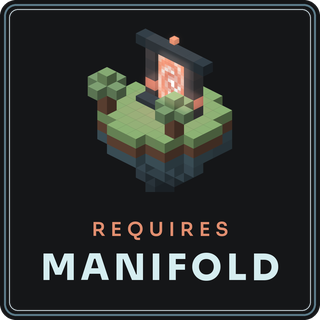
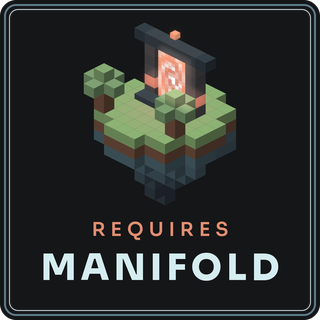
docs: badges article, landing card, and the whole island in the badge mark
The mark's render canvas clipped the bottom of the island; it is larger now
and the generator asserts nothing touches its edges.

diff --git a/docs/assets/badges/generate.py b/docs/assets/badges/generate.py
@@ -47,10 +47,12 @@ def render_mark():
     gate = [v for v in gate if not (v[5] < 0.3 and v[4] < 250)]  # no sparks: noise at badge size
     base = moddb.island(np.random.default_rng(7), 4, 3, keep_clear=cells,
                         light=((0, 0), moddb.SALMON_LIGHT, 4), tree_cells=[(3, 2), (-3, 3)])
-    scene = moddb.Scene(360, 360)
-    scene.add(base + gate, 180, 190, 20)
+    scene = moddb.Scene(440, 520)
+    scene.add(base + gate, 220, 220, 20)
     img = scene.render(bloom=8, strength=0.45)
-    return img.crop(img.getbbox())
+    box = img.getbbox()
+    assert box[0] > 0 and box[1] > 0 and box[2] < img.width and box[3] < img.height, "mark clipped by its canvas"
+    return img.crop(box)
 
 
 MARK = render_mark()
@@ -113,7 +115,7 @@ def paste_mark(img, m, x, y):
 
 def flat(p):
     f_label, f_msg = font(10.5, 500), font(10.5, 700)
-    m = mark(15)
+    m = mark(16)
     label, msg = "requires", "Manifold"
     left = 5 + m.width / U + 4 + text_width(label, f_label, 0.2) + 6
     w = math.ceil(left + 6 + text_width(msg, f_msg, 0.2) + 7)
@@ -122,7 +124,7 @@ def flat(p):
     draw.rounded_rectangle((0, 0, w * U - 1, 20 * U - 1), 3 * U, fill=p["msg_bg"])
     draw.rounded_rectangle((0, 0, left * U, 20 * U - 1), 3 * U, fill=p["label_bg"])
     draw.rectangle(((left - 3) * U, 0, left * U, 20 * U - 1), fill=p["label_bg"])
-    paste_mark(img, m, 5, 2.5)
+    paste_mark(img, m, 5, 2)
     draw_text(img, 5 + m.width / U + 4, 14, label, f_label, p["label_fg"], 0.2)
     draw_text(img, left + 6, 14, msg, f_msg, p["msg_fg"], 0.2)
     return img
@@ -131,11 +133,11 @@ def flat(p):
 def plaque(p):
     w, h = 220, 60
     img = framed(w, h, p)
-    m = mark(44)
+    m = mark(47)
     f1, f2 = font(9.5, 600), font(19, 800)
     block = m.width / U + 12 + max(text_width(LINE_1, f1, 2.6), text_width(LINE_2, f2, 2.2))
     x = (w - block) / 2
-    paste_mark(img, m, x, (h - 44) / 2)
+    paste_mark(img, m, x, (h - 47) / 2)
     x += m.width / U + 12
     draw_text(img, x, 25, LINE_1, f1, p["accent"], 2.6)
     draw_text(img, x, 46, LINE_2, f2, p["ink"], 2.2)
@@ -145,8 +147,8 @@ def plaque(p):
 def square(p):
     w = h = 160
     img = framed(w, h, p, radius=8)
-    m = mark(82)
-    paste_mark(img, m, (w - m.width / U) / 2, 14)
+    m = mark(92)
+    paste_mark(img, m, (w - m.width / U) / 2, 11)
     f1, f2 = font(9.5, 600), font(18, 800)
     draw_text(img, (w - text_width(LINE_1, f1, 2.6)) / 2, 118, LINE_1, f1, p["accent"], 2.6)
     draw_text(img, (w - text_width(LINE_2, f2, 2.2)) / 2, 140, LINE_2, f2, p["ink"], 2.2)
@@ -161,8 +163,8 @@ def seal(p):
     draw.ellipse((2 * U, 2 * U, (w - 2) * U - 1, (h - 2) * U - 1), outline=p["edge"], width=U)
     draw.ellipse((4.5 * U, 4.5 * U, (w - 4.5) * U - 1, (h - 4.5) * U - 1), outline=p["edge"] + (110,), width=U // 2)
     draw_arc_text(img, w / 2, h / 2, 39, f"{LINE_1} {LINE_2}", font(8.6, 700), p["ink"], 1.5)
-    m = mark(50)
-    paste_mark(img, m, (w - m.width / U) / 2, 37)
+    m = mark(55)
+    paste_mark(img, m, (w - m.width / U) / 2, 35)
     for dx in (-9, 0, 9):  # three voxel pips closing the ring under the mark
         s = 2.2 if dx == 0 else 1.6
         cx, cy = (w / 2 + dx) * U, 98 * U
@@ -173,8 +175,8 @@ def seal(p):
 def wide(p):
     w, h = 600, 100
     img = framed(w, h, p, radius=8)
-    m = mark(74)
-    paste_mark(img, m, 26, (h - 74) / 2)
+    m = mark(82)
+    paste_mark(img, m, 26, (h - 82) / 2)
     x = 26 + m.width / U + 22
     f1, f2 = font(26, 800), font(12.5, 500)
     draw_text(img, x, 52, f"{LINE_1} {LINE_2}", f1, p["ink"], 2.4)
@@ -194,3 +196,10 @@ if __name__ == "__main__":
             img.resize((w * 2, h * 2), Image.LANCZOS).save(OUT / f"requires-manifold-{fmt}-{name}@2x.png", optimize=True)
             img.resize((w, h), Image.LANCZOS).save(OUT / f"requires-manifold-{fmt}-{name}.png", optimize=True)
             print(fmt, name, f"{w}x{h}")
+
+    # the docs landing page's card for the Badges article: same 220x160 slot as the other cards
+    card = Image.new("RGBA", (220 * U, 160 * U))
+    plaque_img = plaque(PALETTES["void"])
+    card.alpha_composite(plaque_img.resize((plaque_img.width * 9 // 10, plaque_img.height * 9 // 10), Image.LANCZOS),
+                         (11 * U, 53 * U))
+    card.resize((440, 320), Image.LANCZOS).save(OUT / "card.png", optimize=True)

diff --git a/docfx/articles/badges.md b/docfx/articles/badges.md
@@ -1,0 +1,72 @@
+# Badges
+
+Your mod needs Manifold installed, and a player who misses that line in your description gets a
+mod that does not load. A badge says it at a glance and links straight to the download.
+
+<a href="https://mods.vintagestory.at/manifold"><img src="../assets/badges/requires-manifold-wide-void.png" srcset="../assets/badges/requires-manifold-wide-void@2x.png 2x" width="600" height="100" alt="Requires Manifold" style="max-width:100%;height:auto"></a>
+
+The kit has five formats in three palettes. Every badge carries its own opaque ground and frame,
+so it reads on any page background.
+
+## On a Mod DB page
+
+Open your mod's page in the editor, switch to the source view (the `<>` button) and paste this
+where the badge should sit:
+
+```html
+<a href="https://mods.vintagestory.at/manifold"><img src="https://raw.githubusercontent.com/Pixnop/Manifold/main/docs/assets/badges/requires-manifold-plaque-void.png" width="220" alt="Requires Manifold" style="border:0"></a>
+```
+
+That is the plaque on the dark palette:
+
+<img src="../assets/badges/requires-manifold-plaque-void.png" srcset="../assets/badges/requires-manifold-plaque-void@2x.png 2x" width="220" height="60" alt="Requires Manifold, plaque, void">
+
+Keep the `width` attribute: Mod DB strips most styling, and the width is what keeps the image at
+its intended size. To centre the badge, wrap the link in `<p style="text-align:center">`.
+
+## Pick a format and a palette
+
+Every file is named `requires-manifold-<format>-<palette>.png`. Change those two words in the
+snippet and set `width` to the format's width.
+
+| Format | void | light | slate |
+| --- | --- | --- | --- |
+| **plaque**<br>220x60 | <img src="../assets/badges/requires-manifold-plaque-void.png" srcset="../assets/badges/requires-manifold-plaque-void@2x.png 2x" width="200" alt="requires manifold, plaque, void"> | <img src="../assets/badges/requires-manifold-plaque-light.png" srcset="../assets/badges/requires-manifold-plaque-light@2x.png 2x" width="200" alt="requires manifold, plaque, light"> | <img src="../assets/badges/requires-manifold-plaque-slate.png" srcset="../assets/badges/requires-manifold-plaque-slate@2x.png 2x" width="200" alt="requires manifold, plaque, slate"> |
+| **wide**<br>600x100 | <img src="../assets/badges/requires-manifold-wide-void.png" srcset="../assets/badges/requires-manifold-wide-void@2x.png 2x" width="200" alt="requires manifold, wide, void"> | <img src="../assets/badges/requires-manifold-wide-light.png" srcset="../assets/badges/requires-manifold-wide-light@2x.png 2x" width="200" alt="requires manifold, wide, light"> | <img src="../assets/badges/requires-manifold-wide-slate.png" srcset="../assets/badges/requires-manifold-wide-slate@2x.png 2x" width="200" alt="requires manifold, wide, slate"> |
+| **square**<br>160x160 | <img src="../assets/badges/requires-manifold-square-void.png" srcset="../assets/badges/requires-manifold-square-void@2x.png 2x" width="160" alt="requires manifold, square, void"> | <img src="../assets/badges/requires-manifold-square-light.png" srcset="../assets/badges/requires-manifold-square-light@2x.png 2x" width="160" alt="requires manifold, square, light"> | <img src="../assets/badges/requires-manifold-square-slate.png" srcset="../assets/badges/requires-manifold-square-slate@2x.png 2x" width="160" alt="requires manifold, square, slate"> |
+| **seal**<br>112x112 | <img src="../assets/badges/requires-manifold-seal-void.png" srcset="../assets/badges/requires-manifold-seal-void@2x.png 2x" width="112" alt="requires manifold, seal, void"> | <img src="../assets/badges/requires-manifold-seal-light.png" srcset="../assets/badges/requires-manifold-seal-light@2x.png 2x" width="112" alt="requires manifold, seal, light"> | <img src="../assets/badges/requires-manifold-seal-slate.png" srcset="../assets/badges/requires-manifold-seal-slate@2x.png 2x" width="112" alt="requires manifold, seal, slate"> |
+| **flat**<br>138x20 | <img src="../assets/badges/requires-manifold-flat-void.png" srcset="../assets/badges/requires-manifold-flat-void@2x.png 2x" width="138" alt="requires manifold, flat, void"> | <img src="../assets/badges/requires-manifold-flat-light.png" srcset="../assets/badges/requires-manifold-flat-light@2x.png 2x" width="138" alt="requires manifold, flat, light"> | <img src="../assets/badges/requires-manifold-flat-slate.png" srcset="../assets/badges/requires-manifold-flat-slate@2x.png 2x" width="138" alt="requires manifold, flat, slate"> |
+
+- **void** is the dark ground of Manifold's own page. Use it on a dark page.
+- **light** is slate ink on a near-white ground, for a GitHub README on the light theme.
+- **slate** is white ink on slate blue, for a page that is neither.
+
+- **plaque** (220 px wide). A small framed rectangle. The one to reach for on a Mod DB page, next to your dependency list.
+- **wide** (600 px wide). A banner with a subtitle, for the top or the bottom of a Mod DB description.
+- **square** (160 px wide). A tile, for a sidebar or a gallery slot.
+- **seal** (112 px wide). A round mark, for a page corner or a footer.
+- **flat** (138 px wide). A strip for a README badge row, next to your CI and license badges.
+
+## In a GitHub README
+
+```md
+[![Requires Manifold](https://raw.githubusercontent.com/Pixnop/Manifold/main/docs/assets/badges/requires-manifold-flat-void.png)](https://mods.vintagestory.at/manifold)
+```
+
+## On the Vintage Story forum
+
+```bbcode
+[url=https://mods.vintagestory.at/manifold][img]https://raw.githubusercontent.com/Pixnop/Manifold/main/docs/assets/badges/requires-manifold-plaque-void.png[/img][/url]
+```
+
+## Sharper on high-density screens
+
+Each badge also ships at twice the size, with `@2x` before `.png`. Point `src` at that file and
+keep the same `width`:
+
+```html
+<a href="https://mods.vintagestory.at/manifold"><img src="https://raw.githubusercontent.com/Pixnop/Manifold/main/docs/assets/badges/requires-manifold-plaque-void@2x.png" width="220" alt="Requires Manifold" style="border:0"></a>
+```
+
+The files and the script that draws them live in
+[`docs/assets/badges`](https://github.com/Pixnop/Manifold/tree/main/docs/assets/badges).

diff --git a/docfx/index.md b/docfx/index.md
@@ -272,6 +272,11 @@ The full walkthrough, load order and all, is in [Getting Started](articles/getti
 <h3 class="no-anchor">Architecture</h3>
 <p>Internal services, the sided split, the zero-Harmony note.</p>
 </a>
+<a class="mf-card mf-tilt mf-doc-card" href="articles/badges.md">
+<img src="assets/badges/card.png" width="220" height="160" alt="The Requires Manifold badge, plaque format" loading="lazy">
+<h3 class="no-anchor">Badges</h3>
+<p>A "Requires Manifold" badge for your mod's own page.</p>
+</a>
 <a class="mf-card mf-tilt mf-doc-card" href="api/Manifold.Api.yml">
 <img src="assets/site/api-reference.png" width="220" height="160" alt="A book resting open on a lectern, on its own small island" loading="lazy">
 <h3 class="no-anchor">API Reference</h3>

diff --git a/docs/assets/badges/README.md b/docs/assets/badges/README.md
@@ -143,4 +143,5 @@ Vintage Story forum (BBCode):
 
 Needs Pillow and NumPy, and the Sora variable font, which is not in this repository
 ([OFL](https://fonts.google.com/specimen/Sora)). The wording, the palettes and the layout of
-each format are constants at the top of `generate.py`.
+each format are constants at the top of `generate.py`. It also writes `card.png`, the thumbnail
+of the Badges article on the documentation site's landing page.
